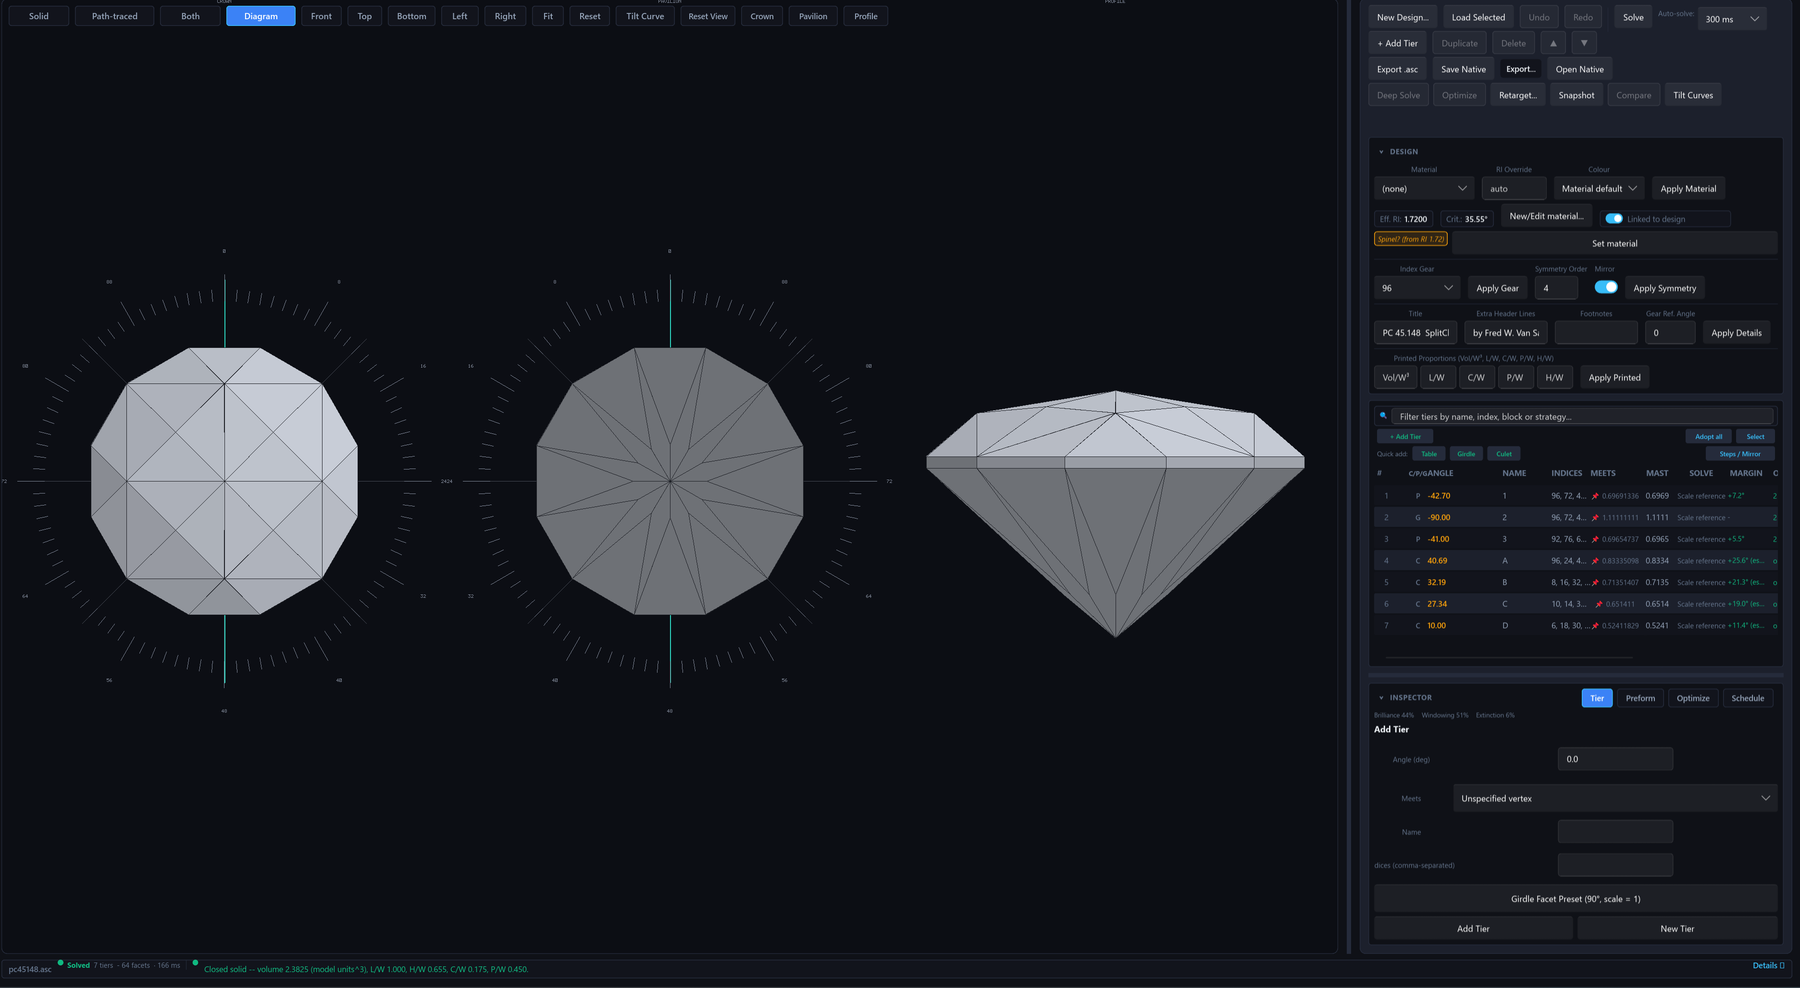
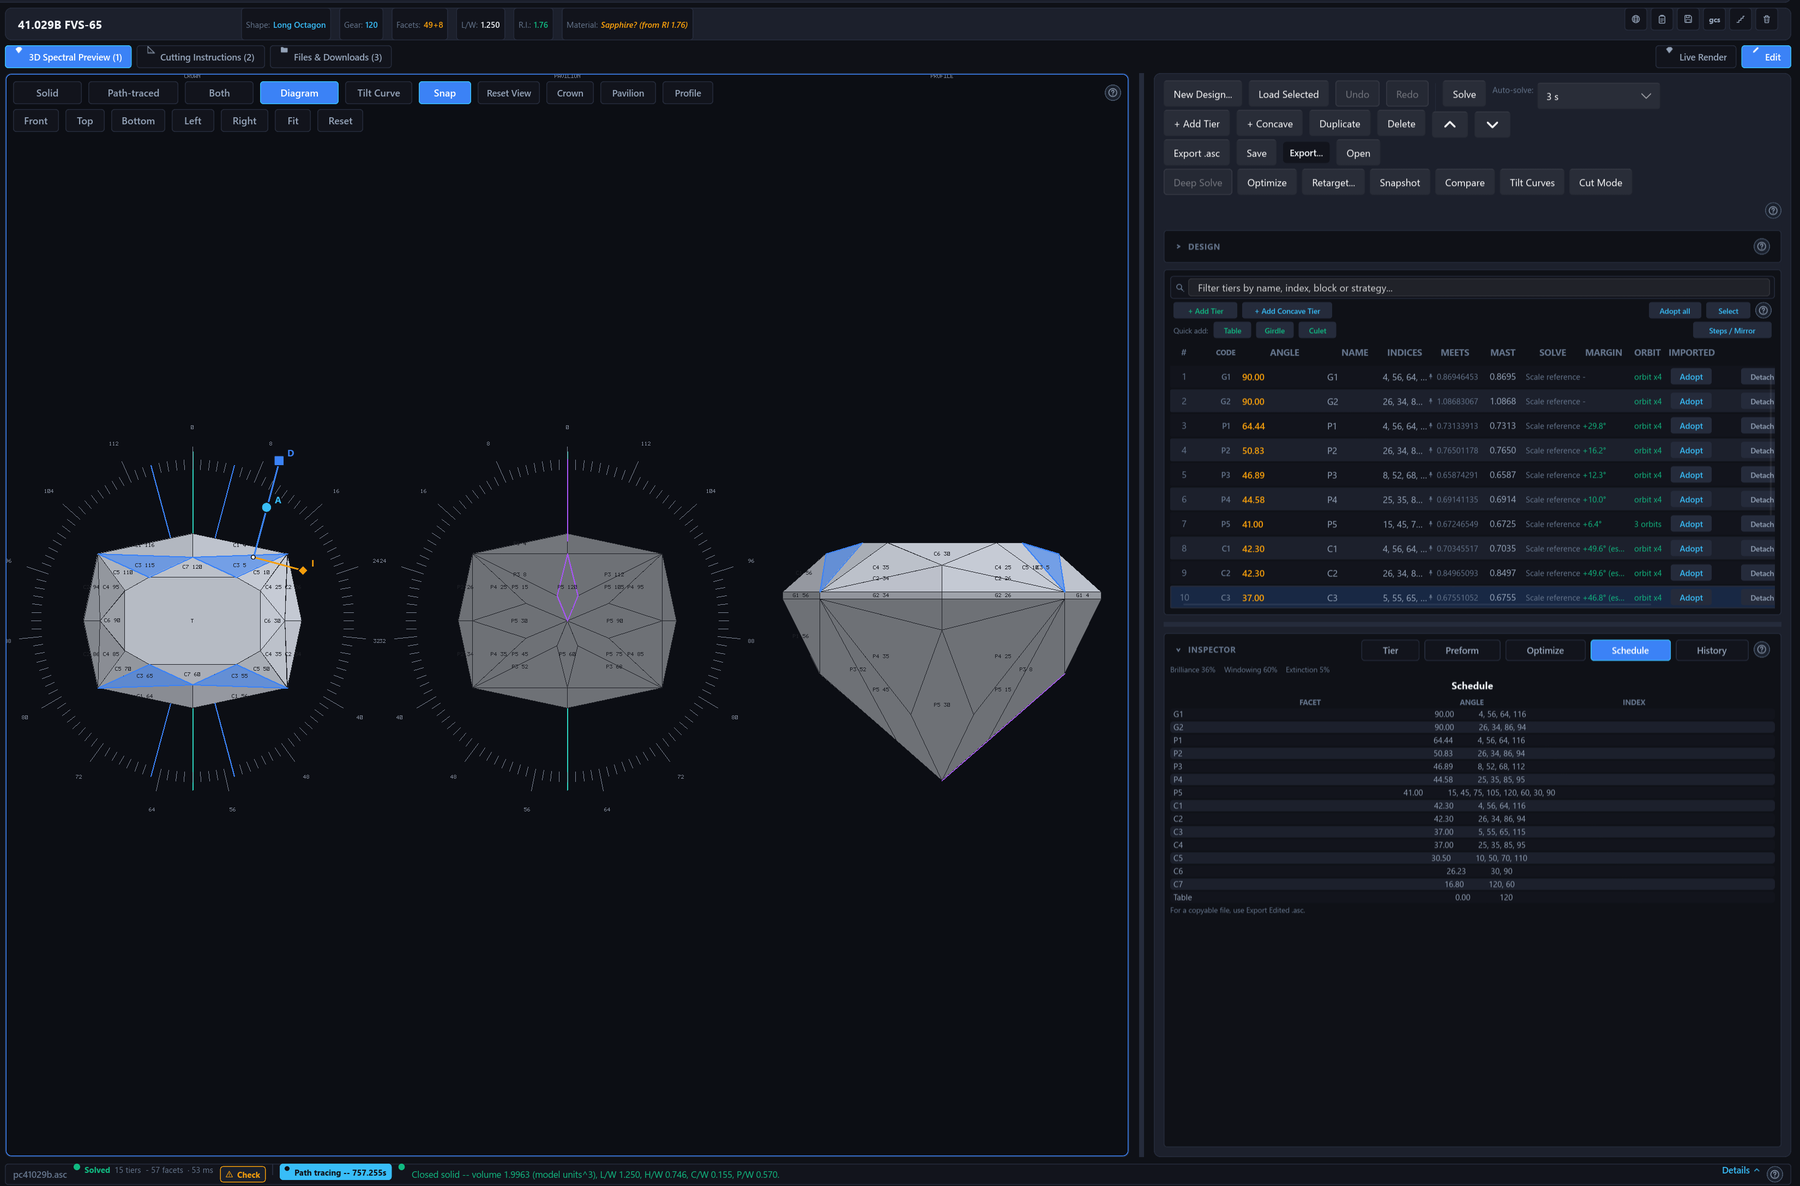
Add files via upload

diff --git a/editor.html b/editor.html
@@ -361,27 +361,21 @@
     <h2><span class="sec-num">5</span>Constraint solver and tier editor <span class="tag">beta</span></h2>
     <figure class="fig">
       <a href="assets/images/fig_cad_edit.png">
-        <img src="assets/images/fig_cad_edit.png" width="1800" height="1093" alt="Edit mode: solid view with a selected facet, tier table and tier inspector" loading="lazy">
+        <img src="assets/images/fig_cad_edit.png" width="1800" height="1191" alt="Edit mode on 41.029B FVS-65: solid view with a selected crown tier, tier table and tier inspector" loading="lazy">
       </a>
-      <figcaption>Fig. 5 — Edit mode: the solid view with a selected crown facet and its drag handles, the tier table and the tier inspector.</figcaption>
+      <figcaption>Fig. 5 — Edit mode on 41.029B FVS-65 (Long Octagon): the solid view with the crown tier C3 selected and its angle and index handles, the tier table beside it and the Tier inspector editing C3.</figcaption>
     </figure>
     <figure class="fig">
       <a href="assets/images/fig_cad_diagram.png">
-        <img src="assets/images/fig_cad_diagram.png" width="1800" height="988" alt="Diagram view: crown, pavilion and profile panels beside the tier table" loading="lazy">
+        <img src="assets/images/fig_cad_diagram.png" width="1800" height="1186" alt="Diagram view: crown, pavilion and profile panels beside the tier table and the Schedule tab" loading="lazy">
       </a>
-      <figcaption>Fig. 6 — The Diagram view: crown, pavilion and profile on the index-gear scale, with the solved tier table beside them.</figcaption>
+      <figcaption>Fig. 6 — The Diagram view of the same design: crown, pavilion and profile on the index-gear scale, with the tier table and the inspector's Schedule tab (facet, angle, indices) beside them.</figcaption>
     </figure>
     <figure class="fig">
       <a href="assets/images/fig_diagram_crown.png">
-        <img src="assets/images/fig_diagram_crown.png" width="1800" height="983" alt="Crown panel of the faceting diagram with facet labels" loading="lazy">
+        <img src="assets/images/fig_diagram_crown.png" width="1800" height="1197" alt="Crown panel of the faceting diagram with facet labels" loading="lazy">
       </a>
-      <figcaption>Fig. 7 — The crown panel alone (Crown in the view bar), every facet labelled with its tier letter and index position.</figcaption>
-    </figure>
-    <figure class="fig fig-portrait" style="--fig-max: 520px">
-      <a href="assets/images/fig_retarget.png">
-        <img src="assets/images/fig_retarget.png" width="879" height="1065" alt="Retarget for Material dialog" loading="lazy">
-      </a>
-      <figcaption>Fig. 8 — Retarget for Material: choose a target material, Shift or Optimize the angles, and read each tier's old and new angle with its margin to the critical angle and a Safe or Windows verdict before applying.</figcaption>
+      <figcaption>Fig. 7 — The crown panel alone (Crown in the view bar): every facet labelled with its tier code and index position, here with tier C5 selected.</figcaption>
     </figure>
     <p>
       Cutting instructions are a geometric constraint graph, not a static list of
@@ -546,7 +540,7 @@
     </p>
     <h3>Retarget for another material</h3>
     <p>
-      <strong>Retarget...</strong> (see the Retarget figure above) proposes new
+      <strong>Retarget...</strong> (see the figures below) proposes new
       crown and pavilion angles for another material and shows every change before
       anything is applied. The target is a built-in material, a custom one or a
       typed refractive index. <em>Shift</em> keeps each pavilion tier's margin
@@ -566,6 +560,12 @@
       instead</em> to scale every crown angle by the ratio of the two critical
       angles, which wins over the other two.
     </p>
+    <figure class="fig">
+      <a href="assets/images/fig_retarget.jpg">
+        <img src="assets/images/fig_retarget.jpg" width="1947" height="1254" alt="Retarget for Material dialog, sapphire to emerald in Shift mode, before and after side by side" loading="lazy">
+      </a>
+      <figcaption>Fig. 8 — Retarget for Material: the sapphire 41.029B FVS-65 retargeted to emerald (n_D 1.5791, critical angle 39.29°) in Shift mode. On the left the crown handling options, each tier's old and new angle with its margin and a Safe or Windows verdict (P1 from 64.44° to 69.10°), the Valid line and the optical comparison; on the right the stone before and after, path traced.</figcaption>
+    </figure>
     <p>
       <em>Keep the design's look</em> (Advanced, on by default) scores every
       option, and the Shift start it is compared with, with a penalty for drifting
@@ -608,6 +608,12 @@
       can be compared, the dialog says so, and Apply keeps the plain angle change.
       Apply is one undo step that covers the angles, the heights and the material.
     </p>
+    <figure class="fig">
+      <a href="assets/images/fig_retarget_overlay.png">
+        <img src="assets/images/fig_retarget_overlay.png" width="1923" height="1239" alt="Retarget for Material dialog with the Overlay view: red outline before, green outline after" loading="lazy">
+      </a>
+      <figcaption>Fig. 9 — The same retarget in the Overlay view, solid: the stone before and after drawn on top of each other, red for the outline before and green for the outline after.</figcaption>
+    </figure>
     <p>
       The Risk column depends on the block. A pavilion row shows its margin over
       the target material's critical angle: Safe at 2° or more, Marginal from 0°
@@ -619,6 +625,33 @@
       the current design in its own material, the same design in the target
       material, and the retargeted design.
     </p>
+    <h3>Changing the index gear</h3>
+    <p>
+      The <em>Index Gear</em> list in the Design settings panel changes the wheel a
+      design is cut on, for example from 96 to 64 teeth. Pick the gear and press
+      <strong>Apply Gear</strong>; the button carries an asterisk while a change is
+      waiting. Nothing changes yet: a <em>Confirm Index Remap</em> dialog lists every
+      tier with its old and new indices. Each position is carried over in proportion
+      to the new tooth count. A position that does not land on a whole tooth of the
+      new gear is rounded, and its row is shown in red, so look at those rows before
+      you confirm. In Advanced mode a <em>Rounding</em> list chooses how: Nearest
+      (the usual), Floor or Ceil, so a position you placed on a half tooth does not
+      move the other way. <em>Confirm Remap</em> applies the change and
+      <em>Cancel</em> keeps the old gear. The angles and the meet constraints are not
+      touched, and concave tiers move with the gear.
+    </p>
+    <figure class="fig fig-portrait" style="--fig-max: 700px">
+      <a href="assets/images/fig_gear_remap.png">
+        <img src="assets/images/fig_gear_remap.png" width="820" height="460" alt="Confirm Index Remap dialog listing each tier's old and new indices" loading="lazy">
+      </a>
+      <figcaption>Fig. 10 — The Confirm Index Remap dialog after picking 64 teeth for a 96-tooth design: one row per tier with its old and new indices, the rows with a position that does not land on a whole tooth in red, and Confirm Remap and Cancel.</figcaption>
+    </figure>
+    <figure class="fig">
+      <a href="assets/images/fig_gear_before_after.jpg">
+        <img src="assets/images/fig_gear_before_after.jpg" width="1800" height="886" alt="The 45.148 SplitChecker 12 design before (96 teeth, left) and after (64 teeth, right) a gear change, with the stone and the tier table of each side by side" loading="lazy">
+      </a>
+      <figcaption>Fig. 11 — A gear change from 96 to 64 teeth on 45.148 SplitChecker 12 in spinel, before (left) and after (right): the live render above and the tier table below, where the angles and meets stay the same and every tier's indices are recomputed.</figcaption>
+    </figure>
   </section>
 
   <section id="relations">
@@ -879,6 +912,12 @@
       lit direction; under a Studio rig, brilliance is measured against that
       rig's own lamps and a small note says so.
     </p>
+    <figure class="fig fig-portrait" style="--fig-max: 760px">
+      <a href="assets/images/fig_optimizer_setup.png">
+        <img src="assets/images/fig_optimizer_setup.png" width="1206" height="865" alt="Optimize tab with the Objective list open and the Starts, Seed and Candidates fields" loading="lazy">
+      </a>
+      <figcaption>Fig. 12 — The Optimize tab with the Objective list open (Balanced, Brilliance, Low windowing, Low extinction, Keep weight, Lighten dark rough, and more below the fold) above the Starts, Seed and Candidates fields: here 16 starts, seed 0, 5 candidates, Polish on and an estimated time of about 20 seconds.</figcaption>
+    </figure>
     <ul>
       <li><strong>Objective.</strong> Seven presets set the weights of windowing,
         extinction, tilt brilliance, yield and tone: Balanced (1, 1, 1), Brilliance
@@ -933,8 +972,12 @@
       design. Apply commits it as one undo step, including the followers of any
       tier it moves, and is refused when the design has changed since the run.
     </p>
-    <!-- FIGURE WANTED: the Optimize tab after a run, with the Start row, three
-      candidates in green and red, and the Tiers this would change table. -->
+    <figure class="fig fig-portrait" style="--fig-max: 820px">
+      <a href="assets/images/fig_optimizer_result.png">
+        <img src="assets/images/fig_optimizer_result.png" width="1180" height="973" alt="Optimize tab after a run: the Start row, five candidates and the Tiers this would change list" loading="lazy">
+      </a>
+      <figcaption>Fig. 13 — The Optimize tab after a run: the Start row (score 51.62) and five candidates with score, windowing, brilliance, extinction, yield and tone (L*), green where a figure beats the start and red where it is worse. Candidate 1 is picked: its face-up colour moves from L* 35.4 to 37.1 under the Grading tray, and the list below shows each tier it would change, from P1 at 69.10° to 65.47° downwards.</figcaption>
+    </figure>
     <h3>Angle sweeps</h3>
     <p>
       <strong>Edit &rarr; Angle Sweep...</strong> tries one tier's angle over a
@@ -987,6 +1030,18 @@
       <em>Keep after</em> applies the change exactly as the dialog's own Apply
       does.
     </p>
+    <figure class="fig fig-portrait" style="--fig-max: 860px">
+      <a href="assets/images/fig_compare_overlay.png">
+        <img src="assets/images/fig_compare_overlay.png" width="1656" height="1221" alt="Compare window opened from Optimize, overlay view with the Compare against list" loading="lazy">
+      </a>
+      <figcaption>Fig. 14 — The compare window opened from the Optimize tab, in the Overlay view with the solid stone: red marks what the optimized stone removes and green what it adds. The Compare against list at the top reads Current design; the table gives before, after and change for brilliance (21.5 % to 55.3 %), windowing (48.9 % to 14.2 %), extinction, fire and scintillation.</figcaption>
+    </figure>
+    <figure class="fig fig-portrait" style="--fig-max: 860px">
+      <a href="assets/images/fig_compare_traced.jpg">
+        <img src="assets/images/fig_compare_traced.jpg" width="1653" height="1218" alt="Compare window, side by side and path traced, with the tilt-average rows" loading="lazy">
+      </a>
+      <figcaption>Fig. 15 — The same window side by side and path traced on the emerald stone, after the tilt-average button: the table gains the tilt brilliance (22.6 % to 29.7 %), tilt windowing (66.5 % to 60.2 %) and tilt extinction (11.0 % to 10.1 %) rows and a sentence on the average over all tilts.</figcaption>
+    </figure>
   </section>
 
   <section id="history-variants">
@@ -1182,7 +1237,7 @@
       <a href="assets/images/fig_rough_planner.png">
         <img src="assets/images/fig_rough_planner.png" width="1800" height="1299" alt="Rough Planner window: the modelled rough and the plan controls" loading="lazy">
       </a>
-      <figcaption>Fig. 9 — Modelling the rough: a 14 × 38 × 9 mm sapphire block with five edge cuts, the selected cut highlighted in the 3D view, and the Plan controls below.</figcaption>
+      <figcaption>Fig. 16 — Modelling the rough: a 14 × 38 × 9 mm sapphire block with five edge cuts, the selected cut highlighted in the 3D view, and the Plan controls below.</figcaption>
     </figure>
     <p>
       The <em>candidate designs</em> are either the designs the library's search
@@ -1236,7 +1291,7 @@
       <a href="assets/images/fig_rough_planner_result.jpg">
         <img src="assets/images/fig_rough_planner_result.jpg" width="1800" height="1305" alt="Rough Planner result: eight stones drawn inside the rough and the result card" loading="lazy">
       </a>
-      <figcaption>Fig. 10 — A result: 10 layouts from 318 designs in a second; the selected layout cuts eight stones of four designs (17.06 ct, 25.9 % yield), drawn in their saw pieces, with each design's weight, size, ratios, orientation and fill in the card.</figcaption>
+      <figcaption>Fig. 17 — A result: 10 layouts from 318 designs in a second; the selected layout cuts eight stones of four designs (17.06 ct, 25.9 % yield), drawn in their saw pieces, with each design's weight, size, ratios, orientation and fill in the card.</figcaption>
     </figure>
     <p>
       A design's name in a result is a <strong>link into the library</strong>; a
@@ -1277,7 +1332,7 @@
       <a href="assets/images/fig_solid_view.png">
         <img src="assets/images/fig_solid_view.png" width="1800" height="1126" alt="Solid inspection view with facet picking" loading="lazy">
       </a>
-      <figcaption>Fig. 11 — Solid inspection: click a facet to jump to its row in the schedule.</figcaption>
+      <figcaption>Fig. 18 — Solid inspection: click a facet to jump to its row in the schedule.</figcaption>
     </figure>
     <p>
       The Edit tab's second viewport shows the exact polyhedral solid (facet edges
@@ -1351,7 +1406,7 @@
       <a href="assets/images/fig_cutting_schedule.png">
         <img src="assets/images/fig_cutting_schedule.png" width="916" height="664" alt="Cutting instructions table" loading="lazy">
       </a>
-      <figcaption>Fig. 12 — The cutting instructions: one row per step with facet, angle and index-gear positions, split into All Steps, Pavilion and Crown.</figcaption>
+      <figcaption>Fig. 19 — The cutting instructions: one row per step with facet, angle and index-gear positions, split into All Steps, Pavilion and Crown.</figcaption>
     </figure>
     <p>
       A split button in the command bar groups the master-still render
@@ -1381,7 +1436,7 @@
       <a href="assets/images/fig_export_dialog.jpg">
         <img src="assets/images/fig_export_dialog.jpg" width="1800" height="1759" alt="Export High-Resolution Render dialog during an export" loading="lazy">
       </a>
-      <figcaption>Fig. 13 — Export High-Resolution Render mid-export: 4K, Rec.2020, local and remote compute with final-picture transfer, 128 bounces and 16 384 samples per pixel, 73 % done. The output folder is blurred.</figcaption>
+      <figcaption>Fig. 20 — Export High-Resolution Render mid-export: 4K, Rec.2020, local and remote compute with final-picture transfer, 128 bounces and 16 384 samples per pixel, 73 % done. The output folder is blurred.</figcaption>
     </figure>
     <dl class="deflist">
       <dt>Max resolution</dt><dd>8192 × 8192 px (<code>MAX_EXPORT_DIM</code>)</dd>
@@ -1666,6 +1721,24 @@
       that has only an angle table, or one that does not solve. A finished
       lesson's Done mark is saved under the library design's id.
     </p>
+    <figure class="fig fig-portrait" style="--fig-max: 700px">
+      <a href="assets/images/fig_build_menu.png">
+        <img src="assets/images/fig_build_menu.png" width="835" height="490" alt="Library card menu with the Build this design entry" loading="lazy">
+      </a>
+      <figcaption>Fig. 21 — The card menu of a library design: Generate Previews, Compute Tilt Curves, Ignore, Exclude from planner, Build this design and Add tag.</figcaption>
+    </figure>
+    <figure class="fig fig-portrait" style="--fig-max: 440px">
+      <a href="assets/images/fig_build_step1.png">
+        <img src="assets/images/fig_build_step1.png" width="664" height="742" alt="Guide panel on step 1 of 19, Start a new design" loading="lazy">
+      </a>
+      <figcaption>Fig. 22 — The guide panel on step 1 of 19 of a lesson for 41.029B FVS-65, Start a new design: New Design, start from Empty, a cylinder preform, index gear 120, symmetry order 2 with mirror on, no material yet, then Create, and a line saying what to look for.</figcaption>
+    </figure>
+    <figure class="fig fig-portrait" style="--fig-max: 1100px">
+      <a href="assets/images/fig_build_step2.png">
+        <img src="assets/images/fig_build_step2.png" width="1612" height="616" alt="Guide panel on step 2 of 19, Add G1 (girdle), beside the dimmed command bar" loading="lazy">
+      </a>
+      <figcaption>Fig. 23 — Step 2 of 19, Add G1 (girdle), tier 1 of 15: angle -90.0, Meets Exact scale value 0.8695, name 1 and its indices, with the controls the step does not use dimmed and the empty tier table beside the panel.</figcaption>
+    </figure>
     <!-- FIGURE WANTED: the tutorial browser with sections and Done marks, and the
       guide panel on a step with its Waiting for chip. -->
   </section>

diff --git a/gallery.html b/gallery.html
@@ -109,30 +109,30 @@
 
   <figure class="fig">
     <a href="assets/images/fig_cad_edit.png">
-      <img src="assets/images/fig_cad_edit.png" width="1800" height="1093" alt="Edit mode: solid view with a selected facet, tier table and tier inspector" loading="lazy">
+      <img src="assets/images/fig_cad_edit.png" width="1800" height="1191" alt="Edit mode: solid view with a selected facet, tier table and tier inspector" loading="lazy">
     </a>
-    <figcaption>Fig. 10 — Edit mode: the solid view with a selected crown facet and its drag handles, the tier table and the tier inspector (CAD, beta).</figcaption>
+    <figcaption>Fig. 10 — Edit mode: the solid view with a selected crown facet and its drag handles, the tier table and the tier inspector, here on 41.029B FVS-65 (CAD, beta).</figcaption>
   </figure>
 
   <figure class="fig">
     <a href="assets/images/fig_cad_diagram.png">
-      <img src="assets/images/fig_cad_diagram.png" width="1800" height="988" alt="Diagram view: crown, pavilion and profile panels beside the tier table" loading="lazy">
+      <img src="assets/images/fig_cad_diagram.png" width="1800" height="1186" alt="Diagram view: crown, pavilion and profile panels beside the tier table" loading="lazy">
     </a>
-    <figcaption>Fig. 11 — The Diagram view: crown, pavilion and profile on the index-gear scale, with the solved tier table beside them (CAD, beta).</figcaption>
+    <figcaption>Fig. 11 — The Diagram view: crown, pavilion and profile on the index-gear scale, with the tier table and the inspector's Schedule tab beside them (CAD, beta).</figcaption>
   </figure>
 
   <figure class="fig">
     <a href="assets/images/fig_diagram_crown.png">
-      <img src="assets/images/fig_diagram_crown.png" width="1800" height="983" alt="Crown panel of the faceting diagram with facet labels" loading="lazy">
+      <img src="assets/images/fig_diagram_crown.png" width="1800" height="1197" alt="Crown panel of the faceting diagram with facet labels" loading="lazy">
     </a>
-    <figcaption>Fig. 12 — The crown panel alone (Crown in the view bar), every facet labelled with its tier letter and index position (CAD, beta).</figcaption>
+    <figcaption>Fig. 12 — The crown panel alone (Crown in the view bar), every facet labelled with its tier code and index position (CAD, beta).</figcaption>
   </figure>
 
   <figure class="fig">
-    <a href="assets/images/fig_retarget.png">
-      <img src="assets/images/fig_retarget.png" width="879" height="1065" alt="Retarget for Material dialog" loading="lazy">
+    <a href="assets/images/fig_retarget.jpg">
+      <img src="assets/images/fig_retarget.jpg" width="1947" height="1254" alt="Retarget for Material dialog" loading="lazy">
     </a>
-    <figcaption>Fig. 13 — Retarget for Material: choose a target material, Shift or Optimize the angles, and read each tier's old and new angle with its margin to the critical angle and a Safe or Windows verdict before applying (CAD, beta).</figcaption>
+    <figcaption>Fig. 13 — Retarget for Material: the sapphire 41.029B FVS-65 retargeted to emerald in Shift mode, each tier's old and new angle with its margin to the critical angle and a Safe or Windows verdict, and the stone before and after, path traced (CAD, beta).</figcaption>
   </figure>
 
   <figure class="fig">

diff --git a/index.html b/index.html
@@ -219,7 +219,7 @@
     </p>
     <figure class="fig">
       <a href="assets/images/fig_cad_edit.png">
-        <img src="assets/images/fig_cad_edit.png" width="1800" height="1093" alt="Edit mode: solid view with a selected facet, tier table and tier inspector" loading="lazy">
+        <img src="assets/images/fig_cad_edit.png" width="1800" height="1191" alt="Edit mode: solid view with a selected facet, tier table and tier inspector" loading="lazy">
       </a>
       <figcaption>Fig. 6 — Editing tier angles and constraints in the cutting instructions.</figcaption>
     </figure>
